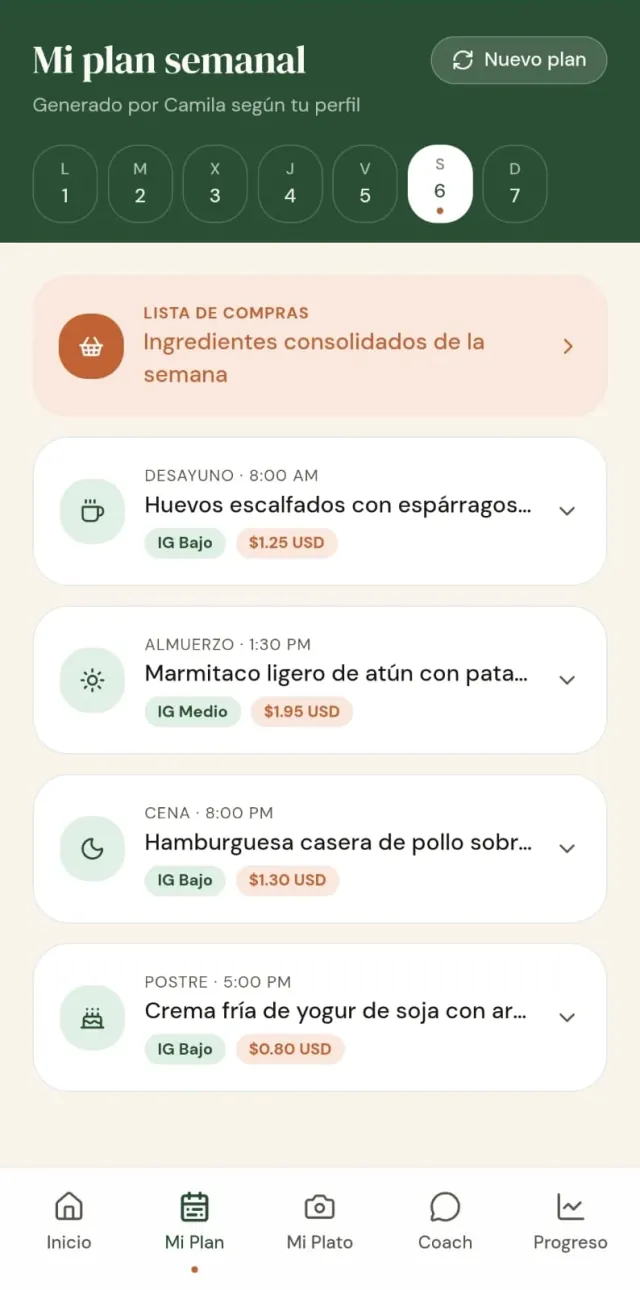
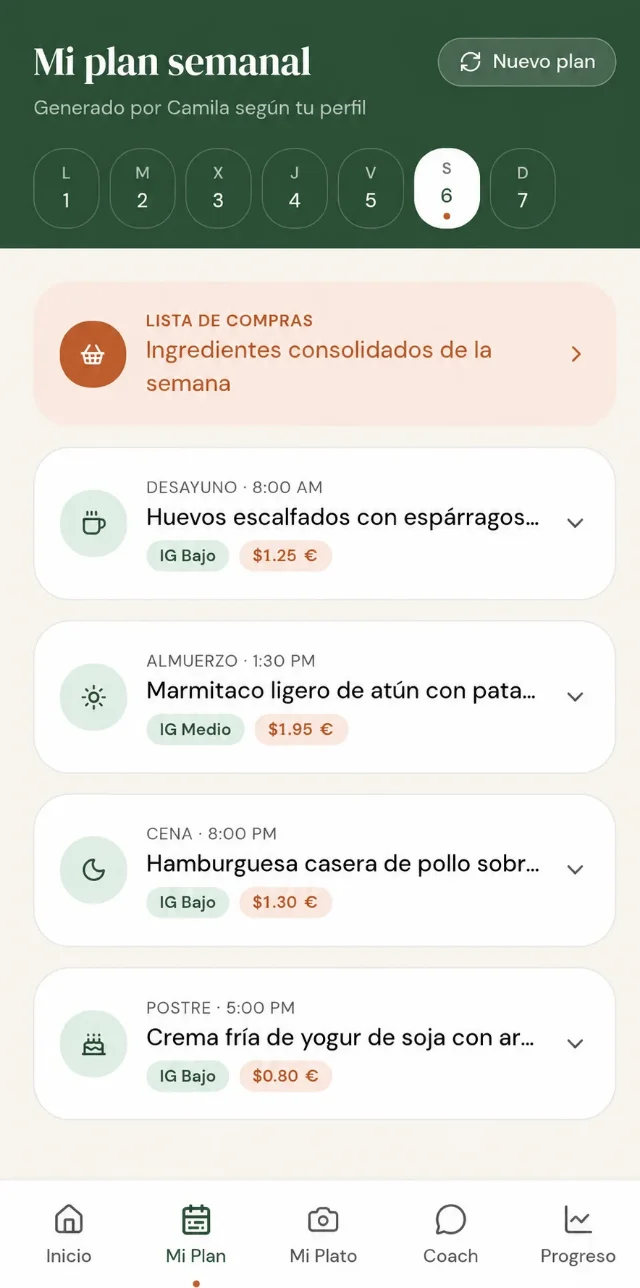
Quita testimonios y notificaciones de compra; nueva captura del plan en euros; adapta pago, FAQ y 'coste' a España

diff --git a/src/App.tsx b/src/App.tsx
@@ -1,4 +1,3 @@
-import { useEffect, useState } from "react";
 const heroCover = "/hero-app-920.webp";
 const heroCoverSet = "/hero-app-640.webp 640w, /hero-app-920.webp 920w";
 import bonoCamila from "@/assets/bono-camila.webp";
@@ -11,10 +10,6 @@ import benefitPlan from "@/assets/benefit-plan.webp";
 import benefitPlatoFoto from "@/assets/benefit-plato-foto.webp";
 import benefitPlatoResultado from "@/assets/benefit-plato-resultado.webp";
 import benefitProgreso from "@/assets/benefit-progreso.webp";
-import testimonialCristian from "@/assets/testimonial-cristian.webp";
-import testimonialLorena from "@/assets/testimonial-lorena.webp";
-import testimonialCarlos from "@/assets/testimonial-carlos.webp";
-import testimonialLigia from "@/assets/testimonial-ligia.webp";
 import { CTAButton } from "@/components/CTAButton";
 import {
   Accordion,
@@ -233,37 +228,6 @@ function Benefits() {
   );
 }
 
-function Testimonials() {
-  const list = [
-    { quote: "Quienes tenemos el azúcar alta vivimos en constante estrés por no saber qué hacer y cómo evitar llegar a una condición crítica. En eso, Recetario Vital App, te da una guía para no sacrificar el placer de comer, pero cuidando tu salud.", name: "Cristian Ortiz", city: "Lima", img: testimonialCristian },
-    { quote: "Cuando te dicen que tienes el azúcar alta entras en modo alerta. Si le sumas que rara vez te dicen qué hacer o cómo hacerlo y que es difícil acceder a un nutricionista, pues una ayuda como Recetario Vital App te da más que un alivio. Por eso la recomiendo.", name: "Lorena Rodríguez", city: "CDMX", img: testimonialLorena },
-    { quote: "Cuando te diagnostican con diabetes, hipertensión o cualquier enfermedad parecida, sentís que nada volverá a ser como antes y es muy triste. Pero cuando encontrás una herramienta como Recetario Vital App, no solo aprendés a comer mejor, sino que te das cuenta que podés seguir llevando una vida normal.", name: "Carlos Martínez", city: "La Plata", img: testimonialCarlos },
-    { quote: "Entendí que los cambios también son para bien. Creí que jamás volvería a disfrutar del buen comer, pero con Recetario Vital App me di cuenta que solo debía hacer unos ajustes más sencillos de lo que pensaba.", name: "Ligia Gutiérrez", city: "Bogotá", img: testimonialLigia },
-  ];
-  return (
-    <section className="px-5 py-16 md:py-24" style={{ backgroundColor: CREAM }}>
-      <div className="max-w-5xl mx-auto">
-        <SectionLabel>Testimonios</SectionLabel>
-        <Heading>Lo que dicen quienes YA reciben los beneficios de Recetario Vital App</Heading>
-        <div className="grid md:grid-cols-2 gap-6 mt-10">
-          {list.map((t) => (
-            <div key={t.name} className="bg-white rounded-2xl p-6 shadow-sm" style={{ border: `1px solid ${GREEN}20` }}>
-              <div className="flex items-center gap-4 mb-4">
-                <img src={t.img} alt={`Foto de ${t.name}`} width={72} height={72} className="rounded-full object-cover" style={{ width: 72, height: 72 }} loading="lazy" decoding="async" />
-                <div>
-                  <p className="font-bold" style={{ color: GREEN, fontSize: 16 }}>{t.name}</p>
-                  <p className="text-sm" style={{ color: INK, opacity: 0.7 }}>{t.city}</p>
-                </div>
-              </div>
-              <p style={{ color: INK, fontSize: 16 }} className="italic leading-relaxed">"{t.quote}"</p>
-            </div>
-          ))}
-        </div>
-      </div>
-    </section>
-  );
-}
-
 function Bonuses() {
   const bonuses = [
     { img: bonoCamila, w: 789, h: 1600, alt: "Chat con Camila, la coach de nutrición de Recetario Vital App", tag: "🎁 BONO 1", title: "Coach Camila", body: "Tu asistente virtual de nutrición personalizado, que te acompaña y te guía 24/7.", value: "25 €" },
@@ -272,16 +236,16 @@ function Bonuses() {
     { img: bonoDetox, w: 480, h: 973, alt: "Guía Detox Natural de Recetario Vital con licuados y aguas infusionadas", tag: "🎁 BONO 4", title: "Detox Natural", body: "Tu aliado líquido en el camino hacia tu salud y bienestar.", value: "10 €" },
   ];
   return (
-    <section className="px-5 py-16 md:py-24 bg-white">
+    <section className="px-5 py-16 md:py-24" style={{ backgroundColor: CREAM }}>
       <div className="max-w-5xl mx-auto">
         <SectionLabel>Bonos exclusivos — solo por hoy</SectionLabel>
-        <Heading>Con tu Recetario Vital App lleva 4 bonos exclusivos — Sin costo adicional</Heading>
+        <Heading>Con tu Recetario Vital App lleva 4 bonos exclusivos — Sin coste adicional</Heading>
         <p className="text-center mb-10" style={{ color: INK, fontSize: 18 }}>
           Valorados en <strong>67 €</strong>. Tuyos GRATIS hoy.
         </p>
         <div className="grid md:grid-cols-2 gap-5">
           {bonuses.map((b) => (
-            <div key={b.title} className="rounded-2xl p-6 flex flex-col sm:flex-row items-center gap-6 shadow-sm" style={{ backgroundColor: CREAM, border: `1px solid ${GREEN}20` }}>
+            <div key={b.title} className="rounded-2xl p-6 flex flex-col sm:flex-row items-center gap-6 shadow-sm bg-white" style={{ border: `1px solid ${GREEN}20` }}>
               <div className="flex-shrink-0 w-full flex justify-center sm:w-auto">
                 <PhoneFrame src={b.img} alt={b.alt} maxWidth={170} width={b.w} height={b.h} />
               </div>
@@ -320,7 +284,7 @@ function Pricing() {
         <h2 className="font-extrabold leading-none text-white" style={{ fontSize: "clamp(52px, 13vw, 88px)", fontWeight: 800 }}>35,09 €</h2>
         <p className="mb-8 mt-3 text-sm md:text-base font-semibold uppercase tracking-[0.2em]" style={{ color: "rgba(255,215,150,0.95)" }}>Precio único · IVA incluido</p>
         <p className="mx-auto mb-8 text-white/90" style={{ fontSize: 18, maxWidth: 620 }}>
-          Por una inversión mínima, muy inferior al costo de una consulta médica o con un nutricionista, llevas hoy tu Recetario Vital App:
+          Por una inversión mínima, muy inferior al coste de una consulta médica o con un nutricionista, llevas hoy tu Recetario Vital App:
         </p>
         <div className="rounded-2xl p-6 md:p-8 mb-10 text-left mx-auto" style={{ backgroundColor: "rgba(255,255,255,0.08)", border: "1px solid rgba(255,255,255,0.2)", maxWidth: 560 }}>
           <p className="text-center text-white font-bold leading-snug pb-4 mb-2 border-b border-white/20" style={{ fontSize: 19 }}>
@@ -356,7 +320,7 @@ function Pricing() {
           <p className="text-white" style={{ fontSize: 16, lineHeight: 1.7 }}>
             🔒 <strong>PAGO 100% SEGURO</strong><br />
             Pago procesado por <strong>Hotmart</strong>, líder en América Latina y España en productos digitales. Tus datos están protegidos con encriptación SSL. Nunca almacenamos información de tu tarjeta.<br /><br />
-            💳 Tarjeta de crédito · Débito · Mercado Pago · PayPal, entre otros<br />
+            💳 Tarjeta de crédito · Débito · PayPal, entre otros<br />
             📦 Acceso inmediato en menos de 2 minutos
           </p>
         </div>
@@ -389,7 +353,7 @@ function FAQ() {
     { q: "¿Cómo descargo mi app?", a: "Después de finalizar tu compra recibes un email con el enlace y las instrucciones de descarga en tu teléfono o dispositivo. Crea tu cuenta con el mismo correo que usaste en la compra." },
     { q: "¿Es difícil usar la app?", a: "Para nada. Es tan sencillo como enviar un mensaje por WhatsApp o llamar a tu hijo, a tu hija, a tu pareja o a un amigo. Recetario Vital App es tan fácil de usar que la dominarás en cuestión de horas." },
     { q: "¿Cuándo la recibo después de pagar?", a: "Inmediatamente después de finalizar tu compra." },
-    { q: "¿Sirve en mi país?", a: "Sí, la app funciona y se adapta a Latinoamérica y España." },
+    { q: "¿Sirve en mi país?", a: "Sí, la app funciona y se adapta a España." },
     { q: "¿Necesito experiencia cocinando?", a: "No. Las recetas están explicadas paso a paso, en un lenguaje sencillo. Si sabes hervir agua, puedes prepararlas." },
     { q: "¿Qué pasa si no cumple mis expectativas?", a: (<>Tienes 7 días para revisarla. Si por cualquier razón no estás satisfecho, solicita la devolución en <strong>Hotmart</strong> y te devolvemos el 100% en menos de 48 horas. Sin formularios. Sin explicaciones. Sin discusiones.</>) },
     { q: "¿Es seguro pagar aquí?", a: (<>Sí. El pago lo procesa <strong>Hotmart</strong>, líder en productos digitales en América Latina y España con más de 35 millones de compradores. Tu información tiene encriptación de nivel bancario.</>) },
@@ -426,53 +390,6 @@ function Footer() {
   );
 }
 
-function SocialProofToast() {
-  const messages = [
-    "Lorena de Ciudad de México acaba de obtener su Recetario Vital App",
-    "Carlos de Buenos Aires acaba de obtener su Recetario Vital App",
-    "María de Bogotá acaba de obtener su Recetario Vital App",
-    "Pedro de Guadalajara acaba de obtener su Recetario Vital App",
-  ];
-  const [index, setIndex] = useState(0);
-  const [visible, setVisible] = useState(false);
-
-  useEffect(() => {
-    let cancelled = false;
-    let hideTimer: ReturnType<typeof setTimeout> | undefined;
-    let nextTimer: ReturnType<typeof setTimeout> | undefined;
-    const cycle = () => {
-      if (cancelled) return;
-      setVisible(true);
-      hideTimer = setTimeout(() => {
-        if (cancelled) return;
-        setVisible(false);
-        nextTimer = setTimeout(() => {
-          if (cancelled) return;
-          setIndex((i) => (i + 1) % messages.length);
-          cycle();
-        }, 30000 + Math.random() * 15000);
-      }, 4000);
-    };
-    const initial = setTimeout(cycle, 8000);
-    return () => {
-      cancelled = true;
-      clearTimeout(initial);
-      if (hideTimer) clearTimeout(hideTimer);
-      if (nextTimer) clearTimeout(nextTimer);
-    };
-  }, [messages.length]);
-
-  return (
-    <div aria-live="polite" style={{ position: "fixed", bottom: 16, left: 16, zIndex: 50, maxWidth: 320, background: "#ffffff", borderRadius: 12, boxShadow: "0 8px 24px rgba(0,0,0,0.12)", border: "1px solid rgba(0,0,0,0.06)", padding: "12px 14px", display: "flex", alignItems: "center", gap: 10, fontSize: 14, color: INK, opacity: visible ? 1 : 0, transform: visible ? "translateY(0)" : "translateY(12px)", transition: "opacity 300ms ease, transform 300ms ease", pointerEvents: visible ? "auto" : "none" }}>
-      <div style={{ flexShrink: 0, width: 36, height: 36, borderRadius: 8, background: CREAM, display: "flex", alignItems: "center", justifyContent: "center", fontSize: 18 }}>📖</div>
-      <div style={{ lineHeight: 1.35 }}>
-        <div style={{ fontWeight: 600, color: GREEN, fontSize: 13 }}>¡Nueva compra!</div>
-        <div>{messages[index]}</div>
-      </div>
-    </div>
-  );
-}
-
 export default function App() {
   return (
     <main>
@@ -480,12 +397,10 @@ export default function App() {
       <Pain />
       <Benefits />
       <ScientificEvidence />
-      <Testimonials />
       <Bonuses />
       <Pricing />
       <FAQ />
       <Footer />
-      <SocialProofToast />
     </main>
   );
 }
